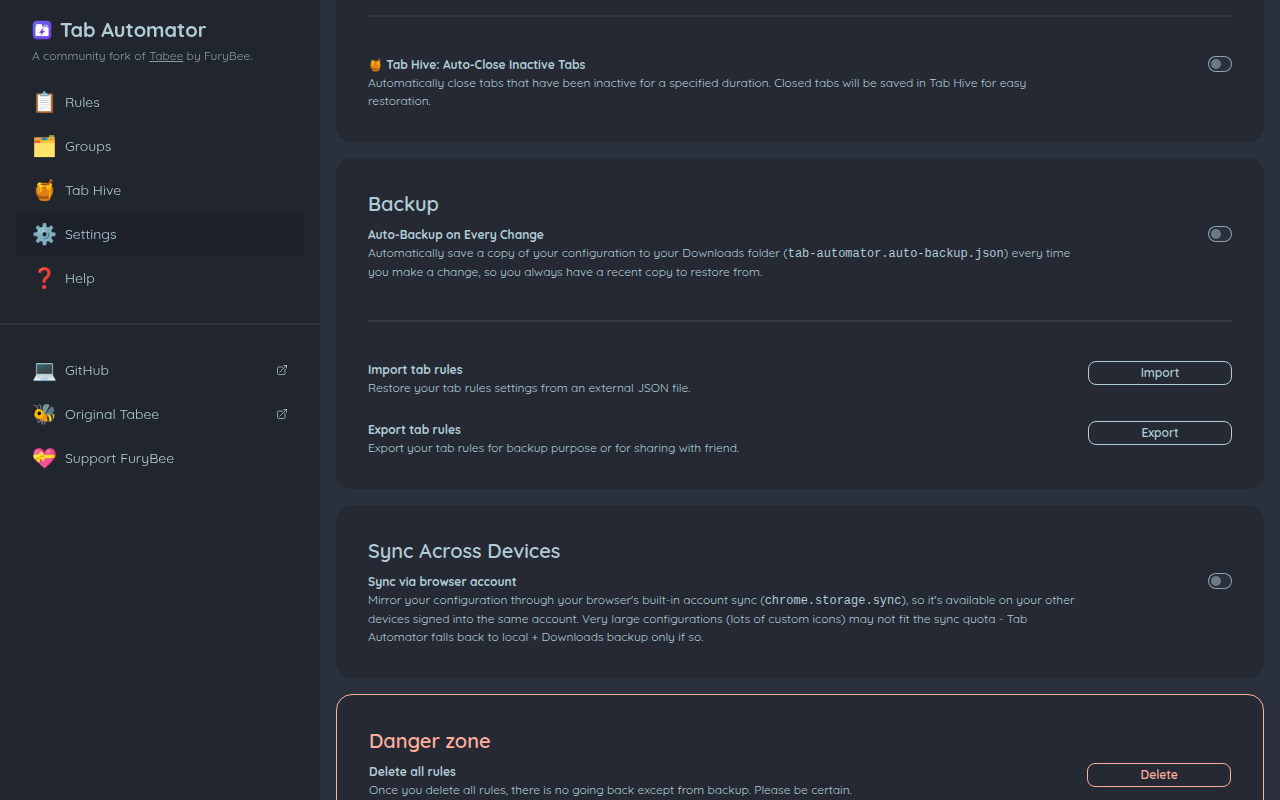
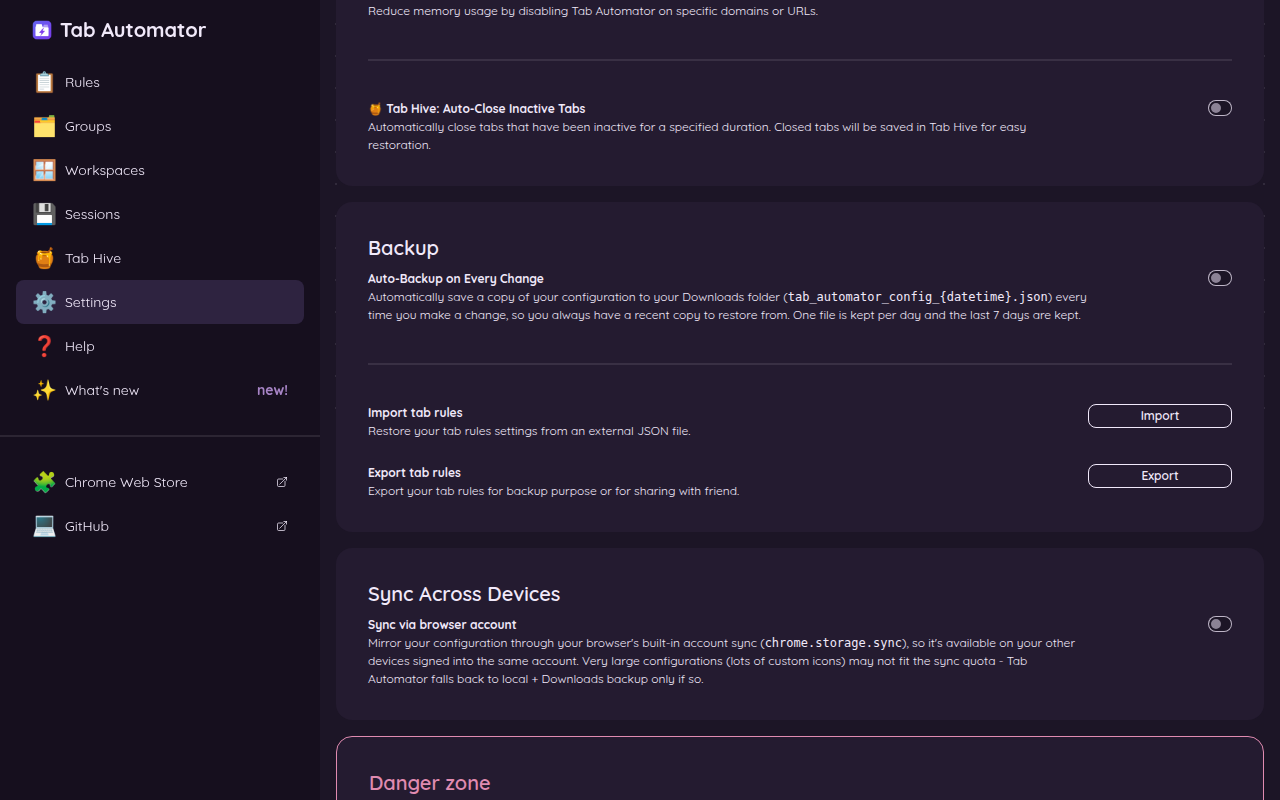
feat: Amethyst theme (Chatshot palette) as the new default, plus refreshed store images
- New dark and light Amethyst daisyUI themes: pastel purple/pink on a near-black
  amethyst ground, dusty rose instead of red. Default for new installs; existing
  themes stay selectable and are not changed for current users.
- Spot Search overlay restyled to match.
- All store screenshots (1280x800, 24-bit) and the promo tile regenerated in the
  new theme, including the backup page which showed the old filename.

Claude-Session: https://claude.ai/code/session_01LAG77HsheC9Qu8zRcgLqQq

diff --git a/src/content/SpotSearchUI.ts b/src/content/SpotSearchUI.ts
@@ -368,7 +368,7 @@ export class SpotSearchUI {
 				left: 0;
 				right: 0;
 				bottom: 0;
-				background: rgba(0, 0, 0, 0.7);
+				background: rgba(14, 9, 20, 0.72);
 				z-index: 2147483646;
 			}
 
@@ -380,7 +380,8 @@ export class SpotSearchUI {
 				transform: translateX(-50%);
 				width: 600px;
 				max-width: 90vw;
-				background: #2d3748;
+				background: #241b30;
+				border: 1px solid #3a2d4d;
 				border-radius: 8px;
 				box-shadow: 0 20px 60px rgba(0, 0, 0, 0.5);
 				z-index: 2147483647;
@@ -391,15 +392,15 @@ export class SpotSearchUI {
 				width: 100%;
 				padding: 16px 20px;
 				border: none;
-				background: #374151;
-				color: #f3f4f6;
+				background: #2e2340;
+				color: #f1e9fa;
 				font-size: 16px;
 				outline: none;
 				box-sizing: border-box;
 			}
 
 			.tabee-spot-input::placeholder {
-				color: #9ca3af;
+				color: #a996b8;
 			}
 
 			.tabee-spot-results {
@@ -413,11 +414,11 @@ export class SpotSearchUI {
 			}
 
 			.tabee-spot-results::-webkit-scrollbar-track {
-				background: #374151;
+				background: #2e2340;
 			}
 
 			.tabee-spot-results::-webkit-scrollbar-thumb {
-				background: #4b5563;
+				background: #4a3a63;
 				border-radius: 4px;
 			}
 
@@ -431,7 +432,7 @@ export class SpotSearchUI {
 
 			.tabee-spot-item:hover,
 			.tabee-spot-item-selected {
-				background: #374151;
+				background: #2e2340;
 			}
 
 			.tabee-spot-item-icon {
@@ -442,7 +443,7 @@ export class SpotSearchUI {
 				display: flex;
 				align-items: center;
 				justify-content: center;
-				color: #9ca3af;
+				color: #a996b8;
 			}
 
 			.tabee-spot-item-icon img {
@@ -474,7 +475,7 @@ export class SpotSearchUI {
 			}
 
 			.tabee-spot-item-title {
-				color: #f3f4f6;
+				color: #f1e9fa;
 				font-size: 14px;
 				font-weight: 500;
 				overflow: hidden;
@@ -483,7 +484,7 @@ export class SpotSearchUI {
 			}
 
 			.tabee-spot-item-url {
-				color: #9ca3af;
+				color: #a996b8;
 				font-size: 12px;
 				overflow: hidden;
 				text-overflow: ellipsis;

diff --git a/tailwind.config.js b/tailwind.config.js
@@ -17,6 +17,58 @@ export default {
 			'valentine',
 			'halloween',
 			{
+				// Pastel purple and pink on a near-black amethyst ground, shared with Chatshot.
+				// Danger is a dusty rose rather than red.
+				amethyst: {
+					'color-scheme': 'dark',
+					primary: '#c2a0e2',
+					'primary-content': '#1c1526',
+					secondary: '#ff8fd0',
+					'secondary-content': '#1c1526',
+					accent: '#a784c6',
+					'accent-content': '#1c1526',
+					neutral: '#2e2340',
+					'neutral-content': '#f1e9fa',
+					'base-100': '#1c1526',
+					'base-200': '#241b30',
+					'base-300': '#160f1e',
+					'base-content': '#f1e9fa',
+					info: '#7dd6e8',
+					'info-content': '#1c1526',
+					success: '#a6d2a0',
+					'success-content': '#1c1526',
+					warning: '#e0b066',
+					'warning-content': '#1c1526',
+					error: '#e08bb0',
+					'error-content': '#1c1526',
+				},
+			},
+			{
+				'amethyst-light': {
+					'color-scheme': 'light',
+					primary: '#a784c6',
+					'primary-content': '#fffbff',
+					secondary: '#e0559e',
+					'secondary-content': '#fffbff',
+					accent: '#c2a0e2',
+					'accent-content': '#2e1a3d',
+					neutral: '#2e1a3d',
+					'neutral-content': '#f6f1fb',
+					'base-100': '#fffcff',
+					'base-200': '#f6f1fb',
+					'base-300': '#eadff4',
+					'base-content': '#2e1a3d',
+					info: '#4fa9c4',
+					'info-content': '#ffffff',
+					success: '#6fae6a',
+					'success-content': '#ffffff',
+					warning: '#cf9a45',
+					'warning-content': '#2e1a3d',
+					error: '#c1567f',
+					'error-content': '#ffffff',
+				},
+			},
+			{
 				tabee: {
 					primary: '#fbbf24', // Amber-400 - Jaune d'abeille
 					'primary-content': '#0a0a0a', // Texte foncé sur jaune

diff --git a/docs/store/promo_tile.html b/docs/store/promo_tile.html
@@ -1,3 +1,3 @@
-<html><body style="margin:0"><div style="width:440px;height:280px;background:linear-gradient(135deg,#6366f1,#7c3aed);display:flex;align-items:center;gap:22px;padding:0 30px;box-sizing:border-box;font-family:Arial,Helvetica,sans-serif;color:#fff">
-<img src="../../public/assets/icon_128.png" style="width:110px;height:110px;border-radius:24px;box-shadow:0 6px 20px rgba(0,0,0,.25)">
-<div><div style="font-size:36px;font-weight:700;line-height:1.1">Tab Automator</div><div style="font-size:17px;margin-top:10px;opacity:.92;line-height:1.35">Rename, group and pin tabs with rules.<br>Backup and sync built in.</div></div></div></body></html>
+<html><head><style>@font-face{font-family:'Quicksand';src:url('../../public/fonts/quicksand-variable.ttf') format('truetype');font-weight:300 700}</style></head><body style="margin:0"><div style="width:440px;height:280px;background:radial-gradient(circle at 12% 18%,rgba(255,143,208,.28),transparent 55%),radial-gradient(circle at 92% 90%,rgba(194,160,226,.30),transparent 55%),linear-gradient(135deg,#2a1e3a,#1c1526);display:flex;align-items:center;gap:20px;padding:0 28px;box-sizing:border-box;font-family:'Quicksand',Arial,Helvetica,sans-serif;color:#f1e9fa">
+<img src="../../public/assets/icon_128.png" style="width:104px;height:104px;border-radius:24px;box-shadow:0 6px 24px rgba(0,0,0,.45);flex-shrink:0">
+<div><div style="font-size:32px;font-weight:700;line-height:1.1;white-space:nowrap">Tab Automator</div><div style="font-size:16px;font-weight:500;margin-top:10px;color:#c2a0e2;line-height:1.4">Rename, group and pin tabs<br>with rules. Workspaces,<br>sessions and backup built in.</div></div></div></body></html>

diff --git a/src/common/__tests__/themes.test.ts b/src/common/__tests__/themes.test.ts
@@ -1,0 +1,27 @@
+import { describe, expect, it } from 'vitest';
+import { _getThemes } from '../helpers';
+import { _getDefaultTabModifierSettings } from '../storage';
+
+describe('themes', () => {
+	it('offers the Amethyst themes first, dark then light', () => {
+		const values = _getThemes().map((theme) => theme.value);
+
+		expect(values.slice(0, 2)).toEqual(['amethyst', 'amethyst-light']);
+	});
+
+	it('keeps the older themes available', () => {
+		const values = _getThemes().map((theme) => theme.value);
+
+		expect(values).toEqual(expect.arrayContaining(['tabee', 'dim', 'dark', 'light']));
+	});
+
+	it('uses Amethyst for new installs', () => {
+		expect(_getDefaultTabModifierSettings().settings.theme).toBe('amethyst');
+	});
+
+	it('lists every theme once', () => {
+		const values = _getThemes().map((theme) => theme.value);
+
+		expect(new Set(values).size).toBe(values.length);
+	});
+});

diff --git a/src/common/whatsNew.ts b/src/common/whatsNew.ts
@@ -27,6 +27,12 @@ export const RELEASES: ReleaseNote[] = [
 					'Switch on Own window in a rule and every tab it matches is gathered into one window of its own, so your dashboards, docs or a client project always live together.',
 			},
 			{
+				emoji: '💜',
+				title: 'Amethyst theme',
+				description:
+					'A new default look: pastel purple and pink on a deep amethyst background, with a dusty rose instead of red for warnings. There is a light version too. If you are already using another theme it stays as it is; switch in Settings → Theme.',
+			},
+			{
 				emoji: '↗',
 				title: 'Move to new window from the right-click menu',
 				description: 'Right-click any page and choose Move tab or group to new window.',

diff --git a/src/options.html b/src/options.html
@@ -6,7 +6,7 @@
     <meta content="width=device-width, initial-scale=1.0" name="viewport" />
     <title>Tab Automator</title>
 </head>
-<body class="font-sans antialiased bg-base-100 h-screen w-screen overflow-hidden"  data-theme="dark">
+<body class="font-sans antialiased bg-base-100 h-screen w-screen overflow-hidden"  data-theme="amethyst">
 <div id="app" class="h-screen w-screen overflow-hidden"></div>
 <script src="/src/options.ts" type="module"></script>
 </body>

diff --git a/src/common/helpers.ts b/src/common/helpers.ts
@@ -57,6 +57,8 @@ export function _isDefined(...args: any[]) {
 
 export function _getThemes() {
 	return [
+		{ label: 'Amethyst 💜', value: 'amethyst' },
+		{ label: 'Amethyst Light', value: 'amethyst-light' },
 		{ label: 'Honey 🐝', value: 'tabee' },
 		{ label: 'Dim', value: 'dim' },
 		{ label: 'Dark', value: 'dark' },

diff --git a/src/common/storage.ts b/src/common/storage.ts
@@ -22,7 +22,7 @@ export function _getDefaultTabModifierSettings(): TabModifierSettings {
 		groups: [],
 		settings: {
 			enable_new_version_notification: false,
-			theme: 'tabee',
+			theme: 'amethyst',
 			lightweight_mode_enabled: false,
 			lightweight_mode_patterns: [],
 			lightweight_mode_apply_to_rules: true,

diff --git a/docs/store/SUBMISSION.md b/docs/store/SUBMISSION.md
@@ -16,7 +16,7 @@ Everything below is ready to paste. Store images are in `docs/store/`; the zip c
 - **Category:** Productivity → Tools (or Workflow & Planning)
 - **Language:** English
 - **Store icon:** `icon_128.png`
-- **Screenshots:** `store_1_rules.png`, `store_2_backup_sync.png` (both 1280×800), plus the 1.5.0 set `store_3_workspaces.png` … `store_7_share_rules.png` (1280×800, 24-bit PNG). The store takes five, so pick your favourites. `violet/` has the same five in the Dark theme (purple accent, matches the icon); the files in this folder use the Dim theme like the first two.
+- **Screenshots:** `store_1_rules.png` … `store_7_share_rules.png` (all 1280×800, 24-bit PNG, Amethyst theme). The store takes five, so pick your favourites; `store_3_workspaces.png`, `store_4_sessions.png` and `store_5_url_tester_and_pause.png` show the newest features.
 - **Small promo tile:** `store_promo_tile_440x280.png`
 - **Homepage URL:** https://github.com/mikesimone/tab-automator
 - **Support URL:** https://github.com/mikesimone/tab-automator/issues

diff --git a/docs/store_description.md b/docs/store_description.md
@@ -58,6 +58,9 @@ Take full control of your browser tabs with Tab Automator! Rename, organize, and
 - Save windows, groups or everything as named sessions, and restore them later with pinned tabs and groups intact
 - "Own window" rule option: every tab a rule matches gathers in one window
 
+🎨 Themes
+- New Amethyst theme (dark and light): pastel purple and pink, no harsh reds
+
 🧪 Rule Tools
 - Test a URL to see exactly which rule applies, and which rules never get a chance
 - Pause all rules with one switch or Alt+Shift+P

diff --git a/README.md b/README.md
@@ -21,6 +21,7 @@ Automate your browser tabs with rules.
 * Workspaces: move a group of tabs to its own window (Alt+Shift+M), perfect for demos
 * Sessions: save a window, all windows or one group, and restore them later
 * Own window: gather every tab a rule matches into one window
+* Amethyst theme (dark and light), the new default look
 
 Quick rename can be done by right-clicking anywhere in the page and click on "Rename Tab".
 
